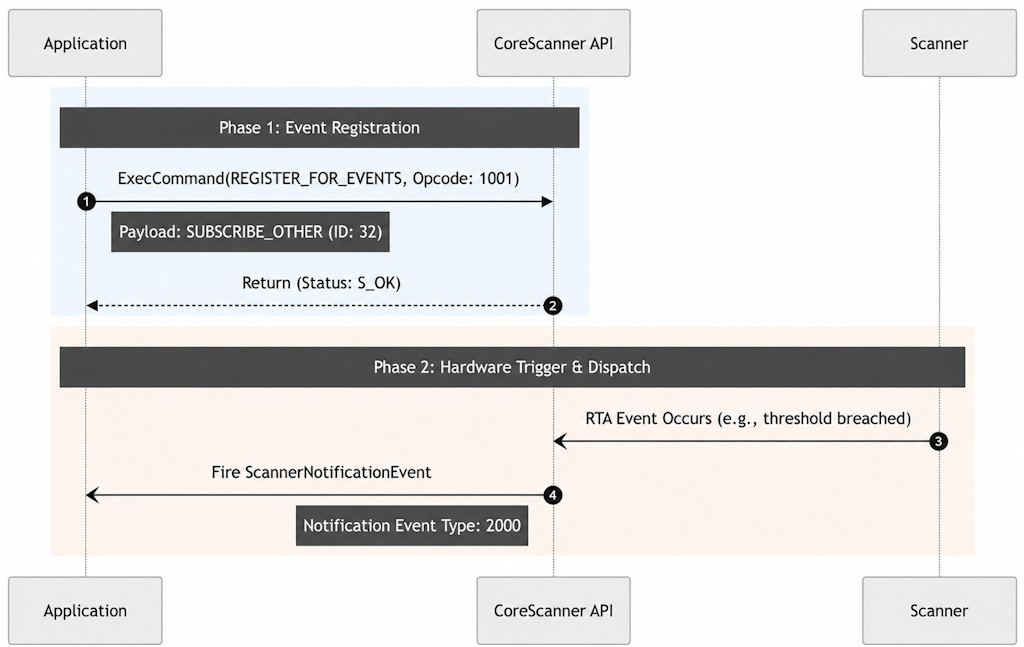
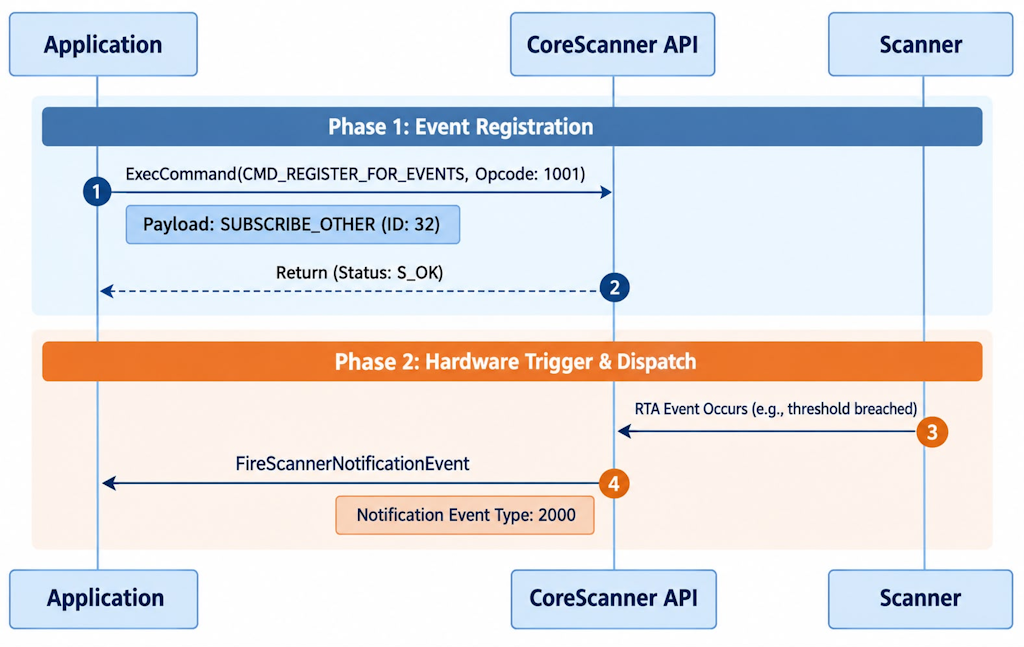
[SSDK-25064] RTA USer Guide for Windows and Linux.
- Feedback addressed.
- A couple of images scaled.
- Correct images are added in Linux related content.

diff --git a/dcs/scanners/rta/user-guide/index.html b/dcs/scanners/rta/user-guide/index.html
@@ -1573,11 +1573,11 @@ try {
 
                                         <p><strong>Note:</strong> If the connected device does not support the RTA feature, the CoreScanner status will display code 117, and the Return Value and Result Code will be displayed as OPOS_E_EXTENDED.</p>
 
-                                        <p>For demonstration purposes, select the RTA attribute "Scanner out of cradle (38004)" from the List of Supported Real Time Alerts &lt;Should be updated with correct link &gt;.</p>
+                                        <p>For demonstration purposes, select the RTA attribute "Scanner out of cradle (38004)" from the <a href="#supported-alerts-table">Supported Alerts</a>.</p>
 
                                         <p>In the configuration xml in RTA Agent, values must be provided for the <em>&lt;id&gt;</em>, <em>&lt;stat&gt;</em>, and <em>&lt;onlimit&gt;</em> tags. The correct values for these tags can be determined by referring to the table’s “Attribute”, “Type”, and “Reporting Value Range” columns, which provide the necessary details for accurate configuration.</p>
 
-                                        <p>For this example, ID 38004 is selected.</p>
+                                        <p>For this example, Attribute ID 38004 is selected.</p>
 
                                         <p>The associated RTA name specifies: "Scanner is off the charger/cradle for a measured time."</p>
 
@@ -1585,17 +1585,34 @@ try {
 
                                         <p>From the Type column, the value is identified as 7. A Type 7 value indicates that the event is designed to monitor an “above-threshold” condition, meaning the RTA event will be triggered once a specified threshold is exceeded.</p>
 
-                                        <p>The threshold is defined by setting the on-limit value, which can be determined from the “Reporting Value Range” column. For this example, the range is 5–600 minutes, allowing any value within this range to be selected. For demonstration purposes, the on-limit is set to 5 minutes.</p>
+                                        <p>The threshold is defined by setting the on-limit value, which can be determined from the “Reporting Value Range” column. For this example, the range is 5-600 minutes, allowing any value within this range to be selected. For demonstration purposes, the on-limit is set to 5 minutes.</p>
 
                                         <p>Thus, for the RTA 38004 attribute, the configuration is established to monitor an above-threshold condition with an on-limit of 5 minutes. This means that if the scanner remains out of the cradle for more than 5 minutes, the RTA event will be triggered.</p>
 
-                                        <div class="figure-block" style="display: block; margin: 0 auto; text-align: center;">
-                                            <img src="../../images/rta/0021-rta-user-guide-opos-attribute-38004-reference.png" alt="Supported alerts entry for attribute 38004" style="display: block; margin: 0 auto;">
-                                            <strong>Figure 8:</strong> Supported Alerts Entry for Attribute 38004
-                                        </div>
+                                        <p><strong>Table 7:</strong> Supported Alerts Entry for Attribute 38004</p>
+                                        <table class="hovertable">
+                                            <tr>
+                                                <th>Category</th>
+                                                <th>RTA Name</th>
+                                                <th>Attribute</th>
+                                                <th>Type</th>
+                                                <th>Reporting Value Range</th>
+                                                <th>Description</th>
+                                                <th>Reported Value(s)</th>
+                                            </tr>
+                                            <tr>
+                                                <td>Charging</td>
+                                                <td>Scanner is off of charger/cradle for a measured time</td>
+                                                <td>38004</td>
+                                                <td>7 - Above Threshold</td>
+                                                <td>5-600 min</td>
+                                                <td>The cordless scanner was removed from its charger/cradle for an extended period</td>
+                                                <td>Minutes off charger</td>
+                                            </tr>
+                                        </table>
                                         <br />
 
-                                        <p><strong>Reference:</strong> List of Supported Real Time Alerts &lt;Should be updated with correct link &gt;.</p>
+                                        <p><strong>Reference:</strong> <a href="#supported-alerts-table">Supported Alerts</a>.</p>
 
                                         <h4>Registering RTA Events</h4>
 
@@ -1635,7 +1652,7 @@ try {
 
                                         <div class="figure-block" style="display: block; margin: 0 auto; text-align: center;">
                                             <img src="../../images/rta/0022-rta-user-guide-opos-get-event-status.png" alt="OPOS sample application showing RTA event status" style="display: block; margin: 0 auto;">
-                                            <strong>Figure 9:</strong> RTA Event Status Returned by DIO_RTA_GET_EVENT_STATUS
+                                            <strong>Figure 8:</strong> RTA Event Status Returned by DIO_RTA_GET_EVENT_STATUS
                                         </div>
                                         <br />
 
@@ -1649,7 +1666,7 @@ try {
 
                                         <div class="figure-block" style="display: block; margin: 0 auto; text-align: center;">
                                             <img src="../../images/rta/0023-rta-user-guide-opos-log-view-rta-event.png" alt="OPOS sample application Log View showing a reported RTA event" style="display: block; margin: 0 auto;">
-                                            <strong>Figure 10:</strong> OPOS Sample Application Log View with a Reported RTA Event
+                                            <strong>Figure 9:</strong> OPOS Sample Application Log View with a Reported RTA Event
                                         </div>
                                         <br />
 
@@ -1664,7 +1681,7 @@ try {
 
                                         <div class="figure-block" style="display: block; margin: 0 auto; text-align: center;">
                                             <img src="../../images/rta/0024-rta-user-guide-opos-event-status-reported-true.png" alt="RTA event status showing Reported = TRUE" style="display: block; margin: 0 auto;">
-                                            <strong>Figure 11:</strong> Event Status Showing Reported = TRUE
+                                            <strong>Figure 10:</strong> Event Status Showing Reported = TRUE
                                         </div>
                                         <br />
 
@@ -1694,7 +1711,7 @@ try {
 
                                         <div class="figure-block" style="display: block; margin: 0 auto; text-align: center;">
                                             <img src="../../images/rta/0025-rta-user-guide-opos-event-status-reported-false.png" alt="RTA event status showing Reported = FALSE" style="display: block; margin: 0 auto;">
-                                            <strong>Figure 12:</strong> Event Status Showing Reported = FALSE After Reset
+                                            <strong>Figure 11:</strong> Event Status Showing Reported = FALSE After Reset
                                         </div>
                                         <br />
 
@@ -1753,7 +1770,7 @@ try {
 
                                         <div class="figure-block" style="display: block; margin: 0 auto; text-align: center;">
                                             <img src="../../images/rta/0026-rta-user-guide-opos-event-status-unregistered.png" alt="RTA event status showing Registered = False after unregistering" style="display: block; margin: 0 auto;">
-                                            <strong>Figure 13:</strong> Event Status Showing Registered = False After Unregistering
+                                            <strong>Figure 12:</strong> Event Status Showing Registered = False After Unregistering
                                         </div>
                                         <br />
 
@@ -1769,7 +1786,7 @@ try {
 
                                         <div class="figure-block" style="display: block; margin: 0 auto; text-align: center;">
                                             <img src="../../images/rta/0027-rta-user-guide-opos-get-state.png" alt="OPOS sample application showing the RTA state" style="display: block; margin: 0 auto;">
-                                            <strong>Figure 14:</strong> RTA State Returned by DIO_RTA_GETSTATE
+                                            <strong>Figure 13:</strong> RTA State Returned by DIO_RTA_GETSTATE
                                         </div>
                                         <br />
 
@@ -1845,7 +1862,7 @@ try {
 
                                         <p>The following table shows all of the currently supported Real Time Alerts. The list of products that support these Alerts can be found in <a href="#supported-products">List of Supported Products</a>.</p>
 
-                                        <p><strong>Table 7:</strong> List of Supported Real Time Alerts</p>
+                                        <p><strong>Table 8:</strong> List of Supported Real Time Alerts</p>
                                         <table class="hovertable">
                                             <tr>
                                                 <th>Category</th>
@@ -2014,7 +2031,7 @@ try {
 
                                         <h2 id="supported-products-table" class="anchor"><a class="heading-anchor" href="#supported-products-table"><span></span></a>Product Support Matrix</h2>
 
-                                        <p><strong>Table 8:</strong> List of Supported Products</p>
+                                        <p><strong>Table 9:</strong> List of Supported Products</p>
                                         <table class="hovertable">
                                             <tr>
                                                 <th>Category</th>
